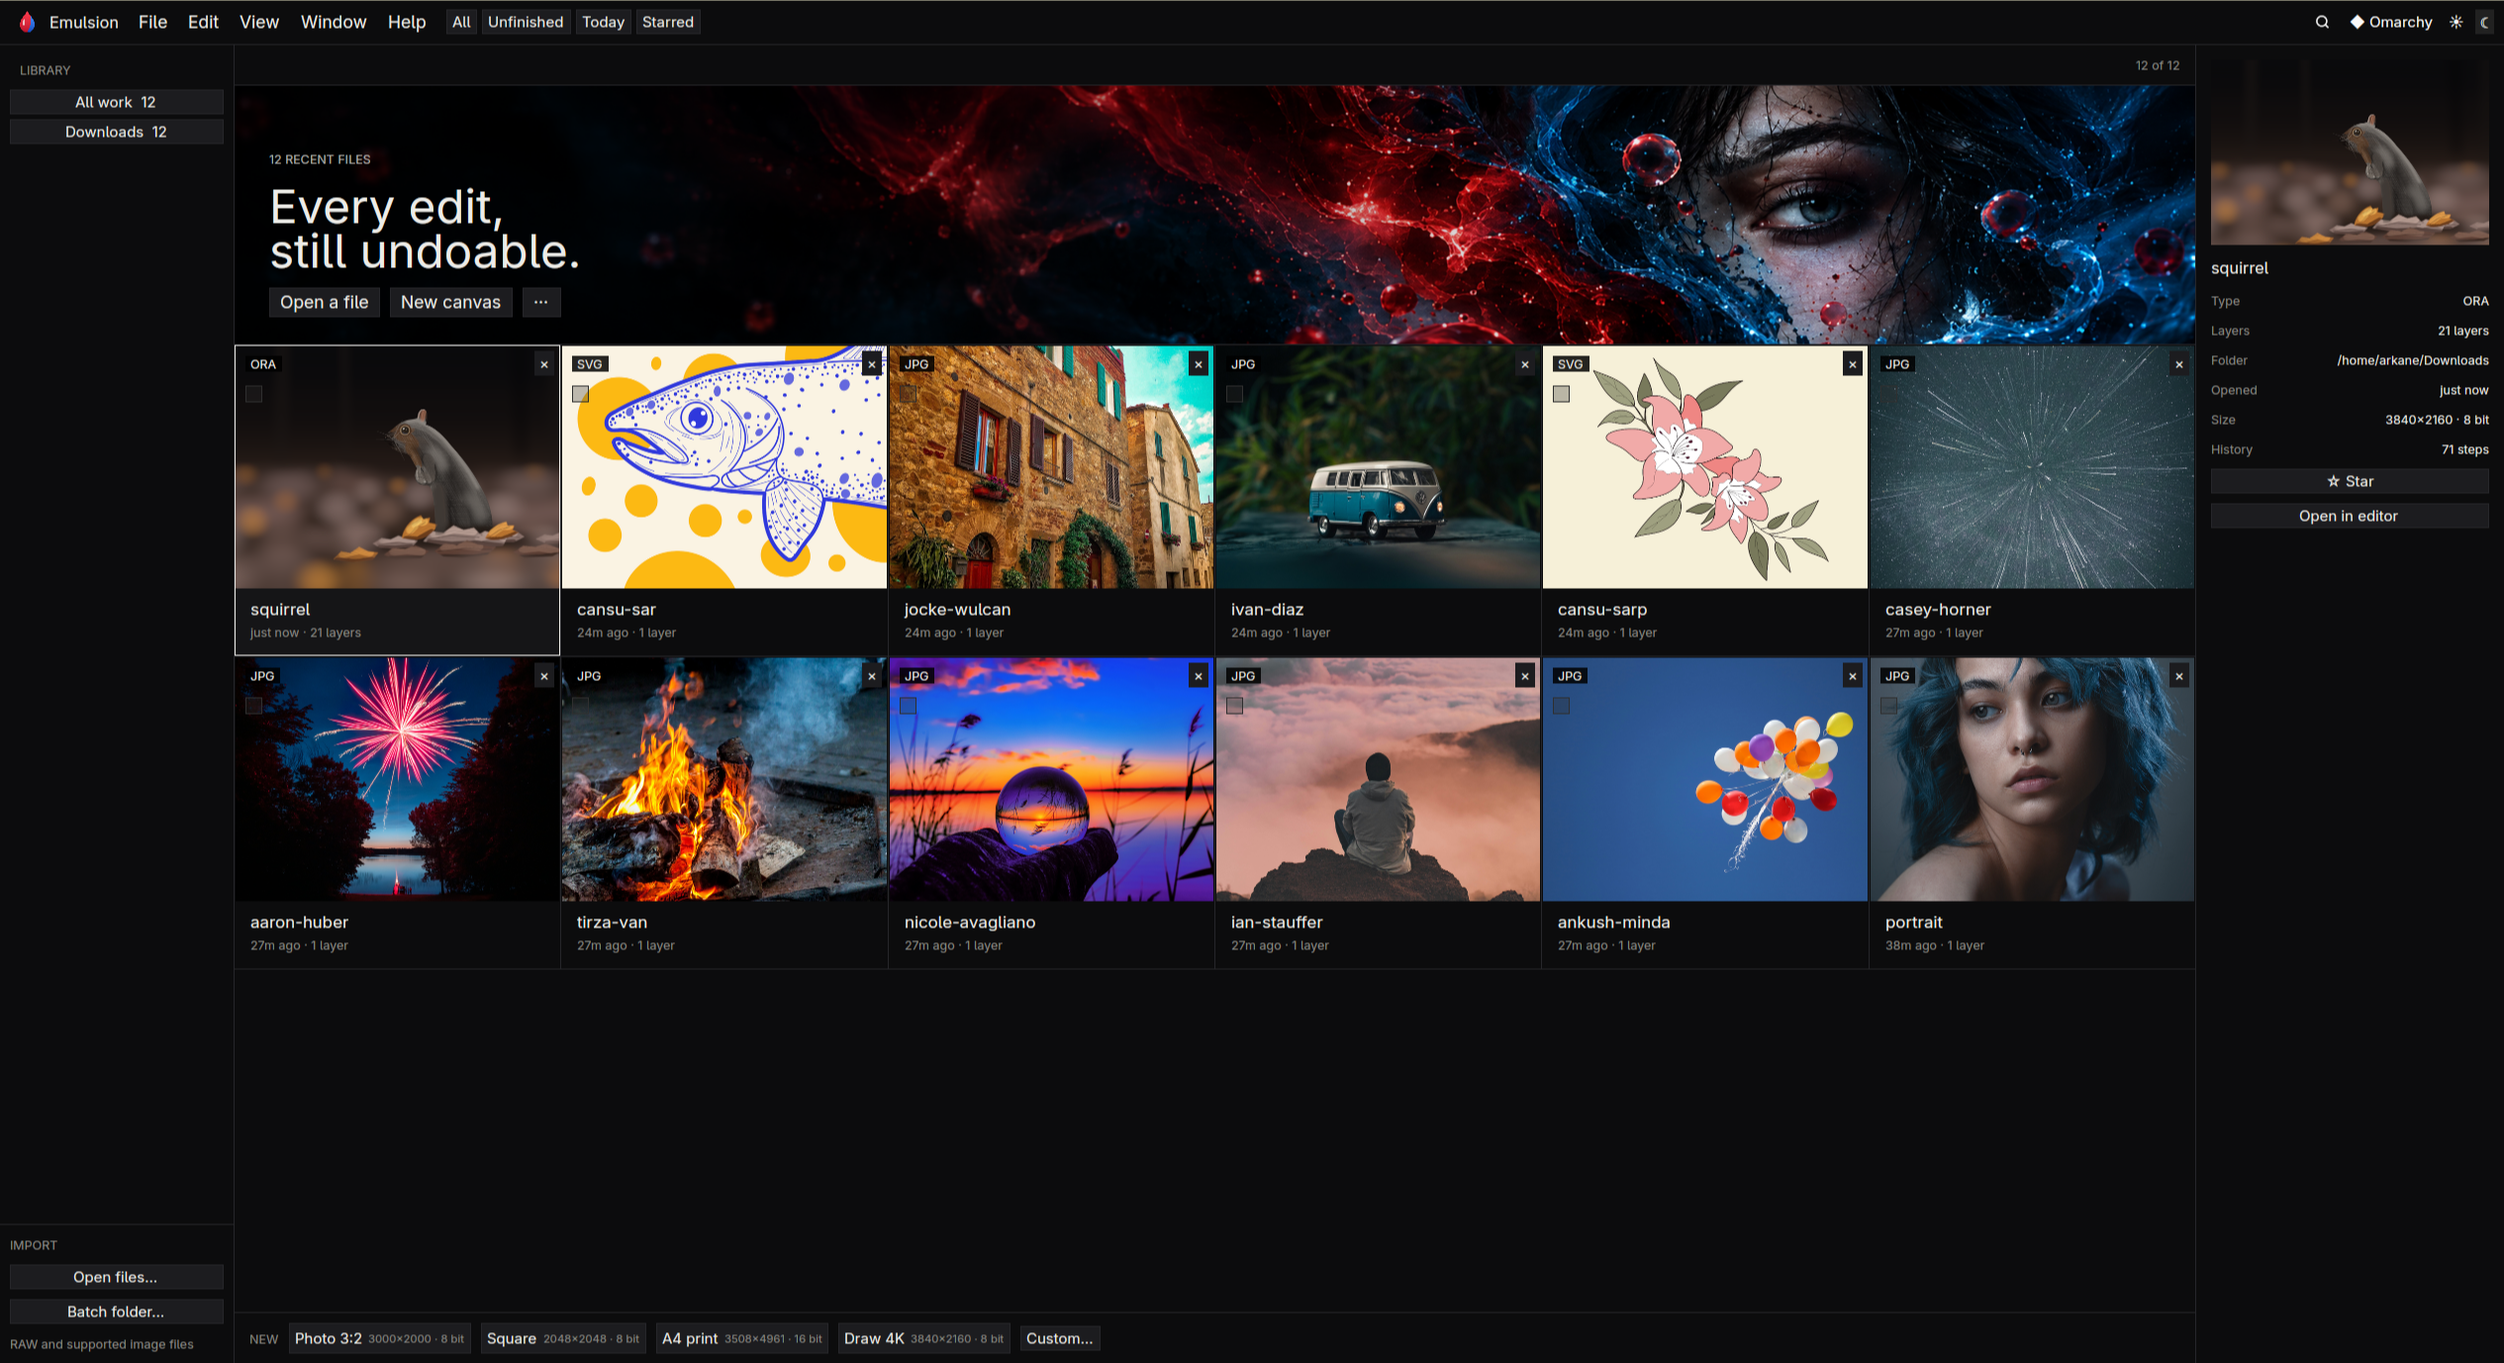
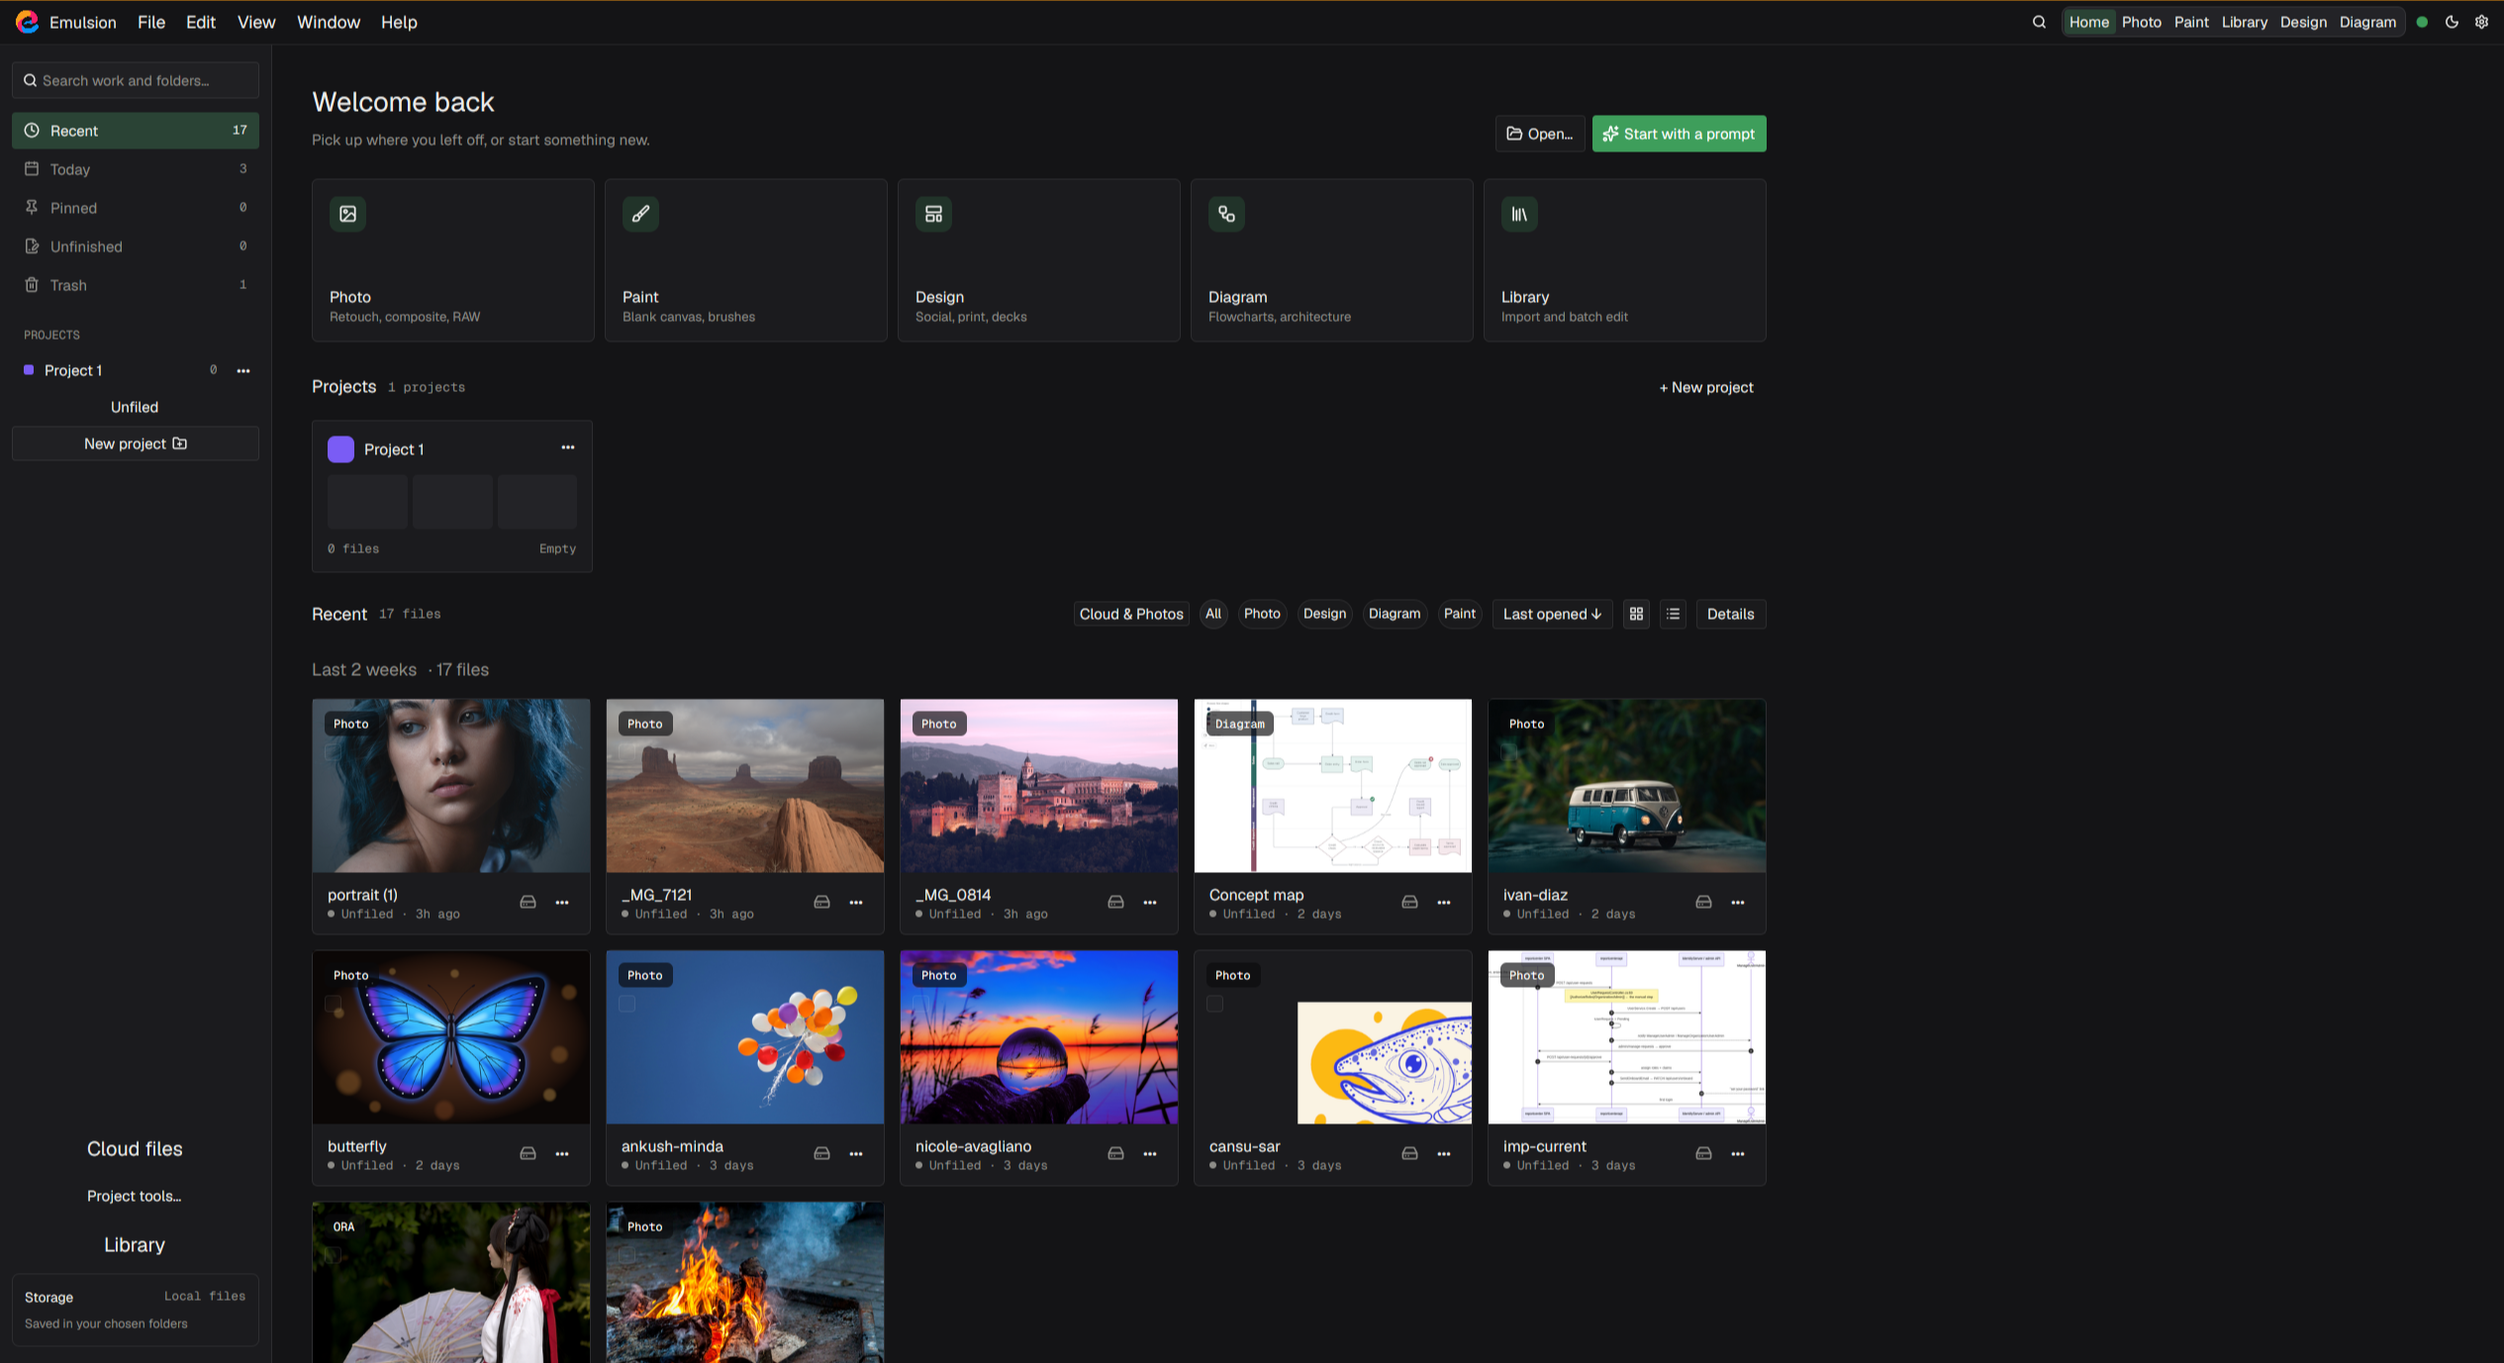
docs(site): add Home as the opening workspace tour tab
- Replace `home.png` with the current Home dashboard capture
- Start the tour on Home with matching caption, alt text, and lightbox source
- Update README and content audit to cover the new Home capture

diff --git a/site/index.html b/site/index.html
@@ -88,9 +88,9 @@
           <figure class="showcase-media" data-media-slot="showcase-diagram"><a href="/assets/diagram.png" aria-label="View the Diagram workspace screenshot full size"><img src="/assets/diagram.png" alt="Emulsion Diagram displaying a credit approval flowchart organized into Customer, Sales, Management, and Credit department swimlanes, with shapes and properties panels" width="2530" height="1377" loading="lazy" /></a><figcaption>Diagram in Emulsion · process swimlanes, editable shapes, and connections. Select the image to view it full size.</figcaption></figure>
         </article>
       </section>
-      <section class="workspace section" id="workspace"><div class="workspace-top"><div><div class="section-label"><span class="tiny-square"></span> A LOOK INSIDE</div><h2>Real tools.<br>Room to make things.</h2></div><p>Explore all five workspaces.<br>Select a tab, then open the screenshot for a closer look.</p></div>
-        <div class="workspace-tabs" role="tablist" aria-label="Explore the workspaces"><button role="tab" id="tab-editor" aria-controls="workspace-panel" aria-selected="true" data-tab="editor">01 <span>Photo</span></button><button role="tab" id="tab-drawing" aria-controls="workspace-panel" aria-selected="false" tabindex="-1" data-tab="drawing">02 <span>Paint</span></button><button role="tab" id="tab-library" aria-controls="workspace-panel" aria-selected="false" tabindex="-1" data-tab="library">03 <span>Library</span></button><button role="tab" id="tab-design" aria-controls="workspace-panel" aria-selected="false" tabindex="-1" data-tab="design">04 <span>Design</span></button><button role="tab" id="tab-diagram" aria-controls="workspace-panel" aria-selected="false" tabindex="-1" data-tab="diagram">05 <span>Diagram</span></button></div>
-        <div id="workspace-panel" role="tabpanel" aria-labelledby="tab-editor" tabindex="0"><div class="screenshot-frame"><img id="workspace-image" src="/assets/photo-portrait.png" alt="Emulsion Photo displaying a blue-haired portrait, recipe preview thumbnails with Faithful selected, and editable adjustment layers" loading="lazy" width="2530" height="1377" /><div id="workspace-placeholder" class="workspace-pending" hidden><svg class="icon" width="48" height="48" aria-hidden="true"><use href="/icons.svg#layout"/></svg><span>SCREENSHOT COMING SOON</span><strong id="workspace-pending-title">Design</strong><p id="workspace-pending-copy"></p><a id="workspace-pending-guide" class="text-link" href="#guide-design">Read the Design guide →</a></div><button class="expand-image" aria-label="View workspace screenshot full size" title="View full size"><svg class="icon" width="24" height="24" aria-hidden="true" focusable="false"><use href="/icons.svg#expand"/></svg></button></div><div class="workspace-caption"><p id="workspace-copy">Preview recipes on your photograph, compare different looks, and apply a treatment as editable adjustment layers. Keep the portrait at the centre while refining colour, curves, and white balance.</p><span id="workspace-tag">PHOTO / PORTRAITS & RECIPES</span></div></div>
+      <section class="workspace section" id="workspace"><div class="workspace-top"><div><div class="section-label"><span class="tiny-square"></span> A LOOK INSIDE</div><h2>Real tools.<br>Room to make things.</h2></div><p>Start in Home, then explore all five workspaces.<br>Select a tab, then open the screenshot for a closer look.</p></div>
+        <div class="workspace-tabs" role="tablist" aria-label="Explore Home and the workspaces"><button role="tab" id="tab-home" aria-controls="workspace-panel" aria-selected="true" data-tab="home">00 <span>Home</span></button><button role="tab" id="tab-editor" aria-controls="workspace-panel" aria-selected="false" tabindex="-1" data-tab="editor">01 <span>Photo</span></button><button role="tab" id="tab-drawing" aria-controls="workspace-panel" aria-selected="false" tabindex="-1" data-tab="drawing">02 <span>Paint</span></button><button role="tab" id="tab-library" aria-controls="workspace-panel" aria-selected="false" tabindex="-1" data-tab="library">03 <span>Library</span></button><button role="tab" id="tab-design" aria-controls="workspace-panel" aria-selected="false" tabindex="-1" data-tab="design">04 <span>Design</span></button><button role="tab" id="tab-diagram" aria-controls="workspace-panel" aria-selected="false" tabindex="-1" data-tab="diagram">05 <span>Diagram</span></button></div>
+        <div id="workspace-panel" role="tabpanel" aria-labelledby="tab-home" tabindex="0"><div class="screenshot-frame"><img id="workspace-image" src="/assets/home.png" alt="Emulsion Home with five workspace shortcuts, a project card and its action menu, the projects sidebar, and a grid of recent files" loading="lazy" width="2530" height="1377" /><div id="workspace-placeholder" class="workspace-pending" hidden><svg class="icon" width="48" height="48" aria-hidden="true"><use href="/icons.svg#layout"/></svg><span>SCREENSHOT COMING SOON</span><strong id="workspace-pending-title">Design</strong><p id="workspace-pending-copy"></p><a id="workspace-pending-guide" class="text-link" href="#guide-design">Read the Design guide →</a></div><button class="expand-image" aria-label="View workspace screenshot full size" title="View full size"><svg class="icon" width="24" height="24" aria-hidden="true" focusable="false"><use href="/icons.svg#expand"/></svg></button></div><div class="workspace-caption"><p id="workspace-copy">Pick up a recent file or start in Photo, Paint, Library, Design, or Diagram. Organize work into projects, search your files, and use each project’s menu to rename it or remove the grouping while keeping its files.</p><span id="workspace-tag">HOME / PROJECTS & RECENT FILES</span></div></div>
       </section>
       <section class="capabilities section" id="capabilities" aria-labelledby="capabilities-title">
         <div class="section-label"><span class="tiny-square"></span> WHAT YOU CAN DO</div>
@@ -160,7 +160,7 @@
     </main>
     <footer class="footer"><a href="#" class="brand"><img class="brand-icon" src="/assets/emulsion-icon.png" alt="" width="26" height="26" />emulsion</a><span>Distinct tools. One creative flow.</span><div><a href="#documentation">Documentation</a><a href="https://github.com/jeremielumandong/emulsion" target="_blank" rel="noopener noreferrer">GitHub <svg class="icon" width="24" height="24" aria-hidden="true" focusable="false"><use href="/icons.svg#external"/></svg></a><a href="https://github.com/jeremielumandong/emulsion/blob/main/LICENSE" target="_blank" rel="noopener noreferrer">MIT License <svg class="icon" width="24" height="24" aria-hidden="true" focusable="false"><use href="/icons.svg#external"/></svg></a><a href="#">Back to top <svg class="icon" width="24" height="24" aria-hidden="true" focusable="false"><use href="/icons.svg#arrow-up"/></svg></a></div></footer>
     <dialog id="install-dialog"><button class="close-dialog" aria-label="Close installation instructions"><svg class="icon" width="24" height="24" aria-hidden="true" focusable="false"><use href="/icons.svg#close"/></svg></button><div class="section-label">YOUR NEXT CREATIVE WORKSPACE</div><h2>Get Emulsion.</h2><p>Free and open source. Install for Linux or Windows, or build for macOS.</p><div class="install-tabs" role="group" aria-label="Choose your platform"><button data-platform="linux" aria-pressed="true">Linux</button><button data-platform="macos" aria-pressed="false">macOS</button><button data-platform="windows" aria-pressed="false">Windows</button></div><p id="install-requirements"></p><div class="command-block"><pre><code id="install-command"></code></pre><button id="copy-command" aria-label="Copy installation commands"><svg class="icon" width="24" height="24" aria-hidden="true" focusable="false"><use href="/icons.svg#copy"/></svg><span>Copy</span></button></div><a id="install-guide" class="button" href="https://github.com/jeremielumandong/emulsion#install-linux" target="_blank" rel="noopener noreferrer"><span id="install-guide-label">Open installation guide</span> <svg class="icon" width="24" height="24" aria-hidden="true" focusable="false"><use href="/icons.svg#external"/></svg></a><p class="install-note">Active development · Linux x86_64 and Windows x64 downloads; macOS source build.</p><span id="copy-status" role="status"></span></dialog>
-    <dialog id="image-dialog"><button class="close-dialog" aria-label="Close screenshot"><svg class="icon" width="24" height="24" aria-hidden="true" focusable="false"><use href="/icons.svg#close"/></svg></button><img src="/assets/photo-portrait.png" alt="Full-size Emulsion workspace" /></dialog>
+    <dialog id="image-dialog"><button class="close-dialog" aria-label="Close screenshot"><svg class="icon" width="24" height="24" aria-hidden="true" focusable="false"><use href="/icons.svg#close"/></svg></button><img src="/assets/home.png" alt="Full-size Emulsion workspace" /></dialog>
     <script type="module" src="/src/main.js"></script>
   </body>
 </html>

diff --git a/site/src/main.js b/site/src/main.js
@@ -16,6 +16,7 @@ document.querySelectorAll('.header nav a').forEach(link => link.addEventListener
 }));
 
 const workspaceViews = {
+  home: { image: 'home.png', alt: 'Emulsion Home with five workspace shortcuts, a project card and its action menu, the projects sidebar, and a grid of recent files', copy: 'Pick up a recent file or start in Photo, Paint, Library, Design, or Diagram. Organize work into projects, search your files, and use each project’s menu to rename it or remove the grouping while keeping its files.', tag: 'HOME / PROJECTS & RECENT FILES' },
   editor: { image: 'photo-portrait.png', alt: 'Emulsion Photo displaying a blue-haired portrait, recipe preview thumbnails with Faithful selected, and editable adjustment layers', copy: 'Preview recipes on your photograph, compare different looks, and apply a treatment as editable adjustment layers. Keep the portrait at the centre while refining colour, curves, and white balance.', tag: 'PHOTO / PORTRAITS & RECIPES' },
   drawing: { image: 'painting.png', alt: 'Emulsion Paint workspace with a layered Mount Fuji landscape painting, the brush panel with size, hardness and pressure controls, a preset library, and the layers panel', copy: 'Paint with pressure-sensitive brushes and build a scene across editable layers. Tune size, hardness, flow, and tilt, or pick from 55 built-in brushes, from inking pens to manga screentones, and import your own.', tag: 'PAINT / BRUSHES & LAYERS' },
   library: { image: 'library-panel.png', alt: 'Emulsion Library with a photo grid, folders and collections, a metadata panel, export settings, and a filmstrip', copy: 'Browse folders and collections, find photographs with ratings and filters, and inspect metadata beside the grid. Switch to Develop to import presets, compare Before / After, and refine local adjustments before exporting.', tag: 'LIBRARY / COLLECTIONS, PRESETS & DEVELOP', guide: '#guide-library' },

diff --git a/site/README.md b/site/README.md
@@ -42,8 +42,9 @@ batch export, printing, history, file formats, optional AI setup, workspace cont
 `src/style.css` provides the responsive layout; `src/main.js` handles the workspace
 tour, screenshot lightbox, illustrative colour previews, and installation dialog.
 
-Existing imagery lives in `public/assets/`. The earlier Photo (`editor.png`), Paint (`drawing.png`), and Home (`home.png`)
-captures are preserved at 2530×1377. The current Photo showcase, tour, and retouching workflow use the
+Existing imagery lives in `public/assets/`. The earlier Photo (`editor.png`) and Paint (`drawing.png`)
+captures are preserved at 2530×1377. The Home capture (`home.png`) uses the supplied
+September 30 dashboard screenshot, copied unchanged at 2530×1377. The current Photo showcase, tour, and retouching workflow use the
 supplied September 30 `portrait.png`, copied unchanged as `photo-portrait.png`
 at the same resolution. Its captions describe recipe previews and adjustment layers.
 The Paint capture also illustrates the assistant workflow. The Library Develop
@@ -68,7 +69,8 @@ full-size link in its figure, retaining the caption and descriptive alt text. Fo
 ```
 
 Use real image dimensions and descriptive alt text. Existing workspace tour image
-paths and descriptions are in `src/main.js`. The tour has five tabs: Photo and Paint
+paths and descriptions are in `src/main.js`. The tour starts with Home, showing project actions and recent files, followed by
+the five workspaces. Photo and Paint
 use application captures; Library uses the supplied `library-panel.png` catalog capture.
 Design and Diagram use the supplied `design-poster.png` and `diagram.png` captures. To add a
 capture, set that view’s `image` and `alt` fields and update its caption; the tour

diff --git a/site/CONTENT_AUDIT.md b/site/CONTENT_AUDIT.md
@@ -203,3 +203,13 @@ support full-size viewing; the remaining film placeholders stay explicit.
   `docs/guides/printing.md`.
 - Kept the root README's distinction between included Linux/macOS/Windows
   adapters and physical output/platform acceptance still being validated.
+
+
+## Home dashboard capture — September 30, 2026
+
+- Replaced `public/assets/home.png` with the supplied Home dashboard screenshot,
+  unchanged at 2530×1377.
+- Added Home as the initial tour tab and synchronized its image, caption, alt
+  text, tab-panel label, and initial lightbox source. The five workspace tabs remain.
+- Captions describe the visible workspace shortcuts, project actions, and recent
+  files. Project removal keeps source files, as documented in the Home guide.
